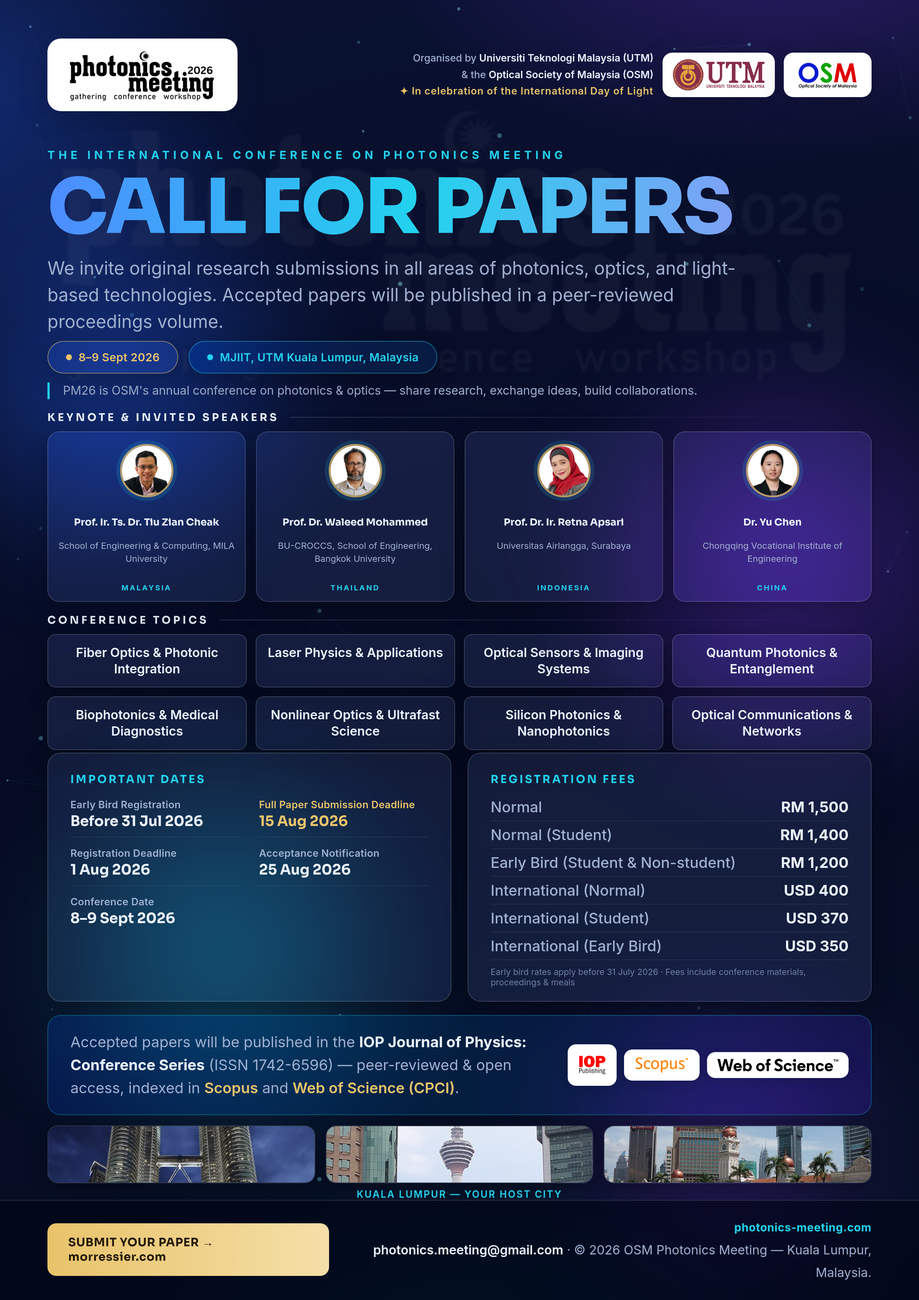
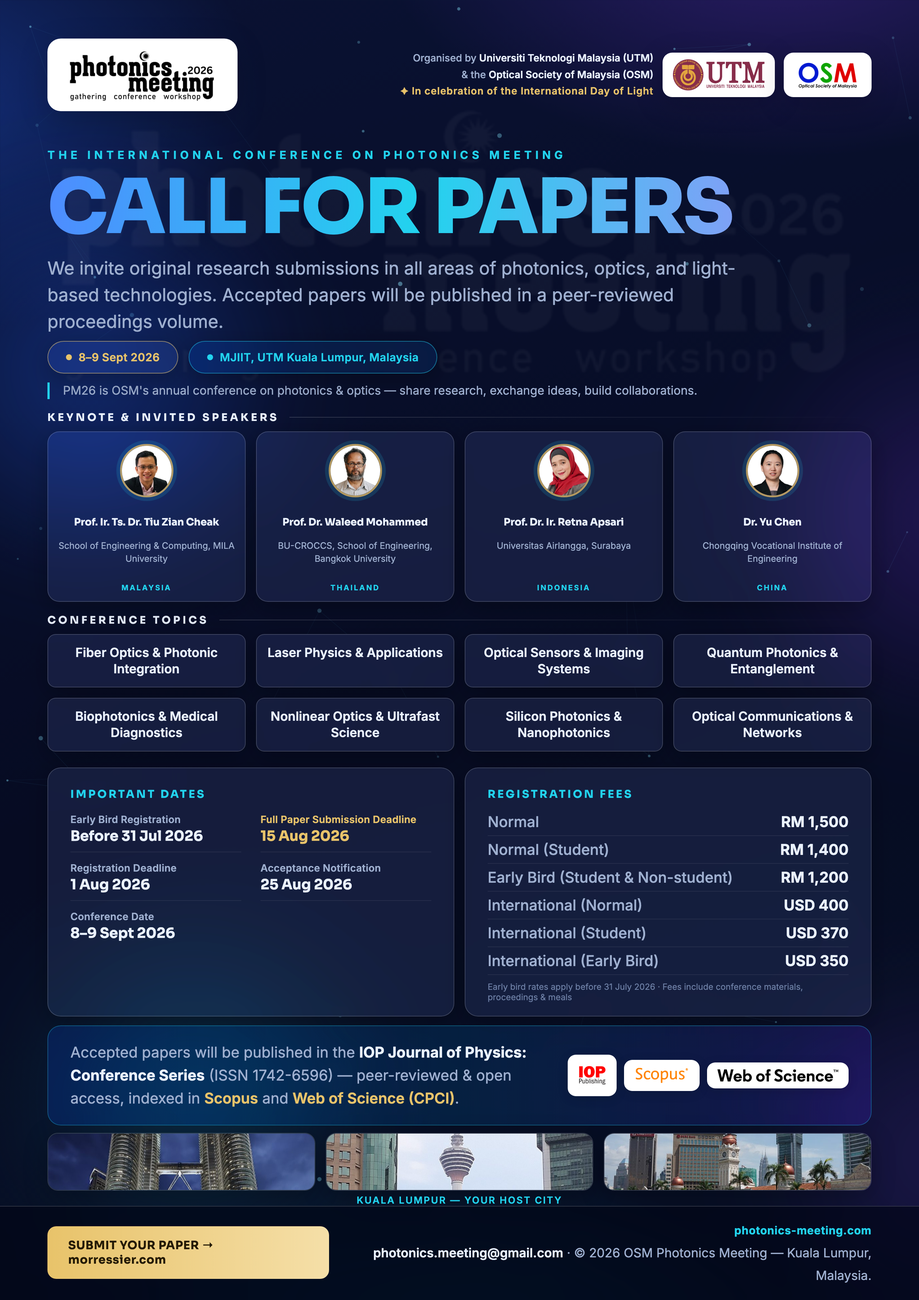
Poster: uniform 14px box gutters + real separation before dates/fees panels
- All box gaps unified to 14px (speaker cards, topic chips, panels seam)
  so every column edge aligns down the page
- Even card tinting: violet orbs moved off the 4th column to the page
  margins (no more purple-washed cards); cyan orb moved out of the
  chips->panels seam and dimmed
- Topics -> panels vertical gap widened to a true 48px (was visually
  ~2px due to orb glow welding the boxes together); height reclaimed
  from publication/KL-strip/footer paddings to preserve A4 fit

Changed region(s): [[0.031, 0.3107, 1.0, 0.9943]]

diff --git a/poster/pm26-cfp-poster-bright.html b/poster/pm26-cfp-poster-bright.html
@@ -47,10 +47,10 @@
   .about { margin-top:12px; font-size:16px; line-height:1.4; color:var(--dim);
     border-left:3px solid var(--cyan); padding-left:18px; }
 
-  .kl-strip { display:flex; gap:14px; margin-top:14px; }
+  .kl-strip { display:flex; gap:14px; margin-top:10px; }
   .kl-strip img { flex:1; height:78px; width:100%; object-fit:cover; border-radius:14px;
     border:1px solid var(--edge); box-shadow:0 8px 32px rgba(10,18,51,.12); }
-  .kl-cap { margin-top:7px; font-size:13px; font-weight:600; letter-spacing:1.5px; color:var(--cyan); text-align:center; }
+  .kl-cap { margin-top:5px; font-size:13px; font-weight:600; letter-spacing:1.5px; color:var(--cyan); text-align:center; }
 
   .slab { font-family:'Sora'; font-size:14px; font-weight:700; letter-spacing:3.4px; color:var(--dimmer);
     margin:16px 0 10px; display:flex; align-items:center; gap:14px; }
@@ -68,12 +68,12 @@
     display:-webkit-box; -webkit-line-clamp:3; -webkit-box-orient:vertical; overflow:hidden; }
   .sp-cty { font-size:10px; font-weight:700; letter-spacing:1.8px; color:var(--cyan); margin-top:6px; }
 
-  .chips { display:grid; grid-template-columns:repeat(4,1fr); gap:12px; }
+  .chips { display:grid; grid-template-columns:repeat(4,1fr); gap:14px; }
   .chip { border:1px solid var(--edge); background:var(--card); border-radius:11px; padding:13px 10px;
     font-size:17px; font-weight:600; text-align:center; color:var(--ink); line-height:1.3;
     box-shadow:0 8px 32px rgba(10,18,51,.12); }
 
-  .cols { display:grid; grid-template-columns:1fr 1fr; gap:22px; }
+  .cols { display:grid; grid-template-columns:1fr 1fr; gap:14px; }
   .panel { background:var(--card); border:1px solid var(--edge); border-radius:18px; padding:26px 30px 18px;
     box-shadow:0 8px 32px rgba(10,18,51,.12); }
   .panel h3 { font-family:'Sora'; font-size:14.5px; font-weight:700; letter-spacing:2.6px; color:var(--cyan); margin-bottom:10px; }
@@ -90,7 +90,7 @@
   .row.hot .row-l { font-weight:600; }
   .fee-note { font-size:11.5px; color:var(--dimmer); padding-top:9px; }
 
-  .pub { margin-top:18px; display:flex; align-items:center; gap:20px; border-radius:18px; padding:20px 30px;
+  .pub { margin-top:12px; display:flex; align-items:center; gap:20px; border-radius:18px; padding:20px 30px;
     background:linear-gradient(90deg, rgba(32,87,224,.07), rgba(34,211,238,.05), rgba(124,58,237,.07)); border:1px solid rgba(32,87,224,.30); }
   .pub-t { flex:1; font-size:20px; line-height:1.55; color:var(--dim); }
   .pub-logos { display:flex; align-items:center; gap:10px; flex:0 0 auto; }
@@ -100,7 +100,7 @@
   .pub-t b { color:var(--ink); }
   .pub-t .gold { color:var(--gold); font-weight:600; }
 
-  .foot { margin-top:auto; margin-left:-64px; margin-right:-64px; padding:20px 64px 22px;
+  .foot { margin-top:auto; margin-left:-64px; margin-right:-64px; padding:16px 64px 18px;
     background:rgba(10,18,51,.035); border-top:1px solid var(--edge);
     display:flex; justify-content:space-between; align-items:center; }
   .foot-submit { font-family:'Sora'; font-size:15.5px; font-weight:700; letter-spacing:.5px;
@@ -111,7 +111,7 @@
 </style></head>
 <body>
 <svg class="net" viewBox="0 0 1240 1754" xmlns="http://www.w3.org/2000/svg"><line x1="254" y1="1054" x2="160" y2="1048" stroke="#2057E0" stroke-width="0.7" opacity="0.02"/><line x1="254" y1="1054" x2="122" y2="1068" stroke="#2057E0" stroke-width="0.7" opacity="0.02"/><line x1="948" y1="73" x2="1011" y2="60" stroke="#2057E0" stroke-width="0.7" opacity="0.04"/><line x1="847" y1="882" x2="876" y2="1020" stroke="#2057E0" stroke-width="0.7" opacity="0.02"/><line x1="847" y1="882" x2="844" y2="742" stroke="#2057E0" stroke-width="0.7" opacity="0.02"/><line x1="847" y1="882" x2="868" y2="904" stroke="#2057E0" stroke-width="0.7" opacity="0.07"/><line x1="788" y1="1673" x2="739" y2="1725" stroke="#2057E0" stroke-width="0.7" opacity="0.04"/><line x1="1224" y1="718" x2="1198" y2="771" stroke="#2057E0" stroke-width="0.7" opacity="0.05"/><line x1="1047" y1="1379" x2="943" y2="1360" stroke="#2057E0" stroke-width="0.7" opacity="0.02"/><line x1="1205" y1="51" x2="1228" y2="159" stroke="#2057E0" stroke-width="0.7" opacity="0.02"/><line x1="160" y1="1048" x2="10" y2="1053" stroke="#2057E0" stroke-width="0.7" opacity="0.02"/><line x1="160" y1="1048" x2="122" y2="1068" stroke="#2057E0" stroke-width="0.7" opacity="0.06"/><line x1="452" y1="1452" x2="498" y2="1416" stroke="#2057E0" stroke-width="0.7" opacity="0.05"/><line x1="364" y1="953" x2="431" y2="824" stroke="#2057E0" stroke-width="0.7" opacity="0.02"/><line x1="154" y1="77" x2="73" y2="131" stroke="#2057E0" stroke-width="0.7" opacity="0.02"/><line x1="154" y1="77" x2="50" y2="169" stroke="#2057E0" stroke-width="0.7" opacity="0.02"/><line x1="154" y1="77" x2="41" y2="36" stroke="#2057E0" stroke-width="0.7" opacity="0.02"/><line x1="10" y1="1053" x2="122" y2="1068" stroke="#2057E0" stroke-width="0.7" opacity="0.02"/><line x1="1051" y1="352" x2="1092" y2="439" stroke="#2057E0" stroke-width="0.7" opacity="0.02"/><line x1="1051" y1="352" x2="939" y2="250" stroke="#2057E0" stroke-width="0.7" opacity="0.02"/><line x1="531" y1="909" x2="431" y2="824" stroke="#2057E0" stroke-width="0.7" opacity="0.02"/><line x1="531" y1="909" x2="591" y2="1021" stroke="#2057E0" stroke-width="0.7" opacity="0.02"/><line x1="73" y1="131" x2="41" y2="36" stroke="#2057E0" stroke-width="0.7" opacity="0.02"/><line x1="676" y1="1253" x2="771" y2="1194" stroke="#2057E0" stroke-width="0.7" opacity="0.02"/><line x1="876" y1="1020" x2="804" y2="959" stroke="#2057E0" stroke-width="0.7" opacity="0.02"/><line x1="50" y1="169" x2="79" y2="296" stroke="#2057E0" stroke-width="0.7" opacity="0.02"/><line x1="297" y1="143" x2="380" y2="255" stroke="#2057E0" stroke-width="0.7" opacity="0.02"/><line x1="943" y1="1360" x2="810" y2="1285" stroke="#2057E0" stroke-width="0.7" opacity="0.02"/><line x1="1132" y1="1224" x2="1133" y2="1253" stroke="#2057E0" stroke-width="0.7" opacity="0.07"/><line x1="55" y1="996" x2="122" y2="1068" stroke="#2057E0" stroke-width="0.7" opacity="0.02"/><line x1="648" y1="1706" x2="739" y2="1725" stroke="#2057E0" stroke-width="0.7" opacity="0.02"/><line x1="770" y1="1436" x2="810" y2="1285" stroke="#2057E0" stroke-width="0.7" opacity="0.02"/><line x1="1011" y1="60" x2="910" y2="66" stroke="#2057E0" stroke-width="0.7" opacity="0.02"/><line x1="79" y1="296" x2="178" y2="425" stroke="#2057E0" stroke-width="0.7" opacity="0.02"/><line x1="79" y1="296" x2="128" y2="374" stroke="#2057E0" stroke-width="0.7" opacity="0.02"/><line x1="844" y1="742" x2="868" y2="904" stroke="#2057E0" stroke-width="0.7" opacity="0.02"/><line x1="608" y1="1644" x2="739" y2="1725" stroke="#2057E0" stroke-width="0.7" opacity="0.02"/><line x1="178" y1="425" x2="83" y2="493" stroke="#2057E0" stroke-width="0.7" opacity="0.02"/><circle cx="927" cy="356" r="2.3" fill="#2057E0" opacity="0.22"/><circle cx="254" cy="1054" r="1.3" fill="#2057E0" opacity="0.16"/><circle cx="70" cy="1362" r="1.5" fill="#2057E0" opacity="0.09"/><circle cx="948" cy="73" r="1.2" fill="#2057E0" opacity="0.12"/><circle cx="847" cy="882" r="2.8" fill="#2057E0" opacity="0.20"/><circle cx="788" cy="1673" r="2.5" fill="#2057E0" opacity="0.24"/><circle cx="1224" cy="718" r="1.3" fill="#2057E0" opacity="0.12"/><circle cx="1047" cy="1379" r="1.3" fill="#2057E0" opacity="0.18"/><circle cx="1205" cy="51" r="1.7" fill="#2057E0" opacity="0.12"/><circle cx="1163" cy="390" r="2.6" fill="#2057E0" opacity="0.08"/><circle cx="160" cy="1048" r="2.1" fill="#2057E0" opacity="0.10"/><circle cx="1040" cy="1678" r="1.2" fill="#2057E0" opacity="0.09"/><circle cx="452" cy="1452" r="3.2" fill="#2057E0" opacity="0.21"/><circle cx="38" cy="1699" r="2.0" fill="#2057E0" opacity="0.19"/><circle cx="364" cy="953" r="2.6" fill="#2057E0" opacity="0.10"/><circle cx="154" cy="77" r="3.1" fill="#2057E0" opacity="0.19"/><circle cx="10" cy="1053" r="1.4" fill="#2057E0" opacity="0.22"/><circle cx="696" cy="1431" r="2.1" fill="#2057E0" opacity="0.13"/><circle cx="1055" cy="743" r="1.8" fill="#2057E0" opacity="0.17"/><circle cx="1051" cy="352" r="1.9" fill="#2057E0" opacity="0.10"/><circle cx="1092" cy="439" r="2.7" fill="#2057E0" opacity="0.16"/><circle cx="1165" cy="674" r="2.1" fill="#2057E0" opacity="0.13"/><circle cx="531" cy="909" r="2.1" fill="#2057E0" opacity="0.16"/><circle cx="73" cy="131" r="1.4" fill="#2057E0" opacity="0.12"/><circle cx="676" cy="1253" r="1.3" fill="#2057E0" opacity="0.13"/><circle cx="55" cy="713" r="2.1" fill="#2057E0" opacity="0.10"/><circle cx="459" cy="1370" r="2.4" fill="#2057E0" opacity="0.15"/><circle cx="1228" cy="159" r="2.2" fill="#2057E0" opacity="0.13"/><circle cx="674" cy="183" r="3.1" fill="#2057E0" opacity="0.19"/><circle cx="972" cy="1653" r="3.0" fill="#2057E0" opacity="0.17"/><circle cx="876" cy="1020" r="1.8" fill="#2057E0" opacity="0.19"/><circle cx="50" cy="169" r="2.2" fill="#2057E0" opacity="0.09"/><circle cx="297" cy="143" r="2.9" fill="#2057E0" opacity="0.24"/><circle cx="166" cy="1683" r="3.0" fill="#2057E0" opacity="0.17"/><circle cx="431" cy="1591" r="2.9" fill="#2057E0" opacity="0.20"/><circle cx="943" cy="1360" r="2.3" fill="#2057E0" opacity="0.08"/><circle cx="1132" cy="1224" r="2.7" fill="#2057E0" opacity="0.15"/><circle cx="431" cy="824" r="2.9" fill="#2057E0" opacity="0.14"/><circle cx="484" cy="57" r="1.9" fill="#2057E0" opacity="0.14"/><circle cx="55" cy="996" r="3.0" fill="#2057E0" opacity="0.18"/><circle cx="648" cy="1706" r="2.3" fill="#2057E0" opacity="0.21"/><circle cx="770" cy="1436" r="2.2" fill="#2057E0" opacity="0.23"/><circle cx="591" cy="1021" r="1.5" fill="#2057E0" opacity="0.10"/><circle cx="1011" cy="60" r="2.3" fill="#2057E0" opacity="0.22"/><circle cx="24" cy="754" r="1.3" fill="#2057E0" opacity="0.13"/><circle cx="362" cy="751" r="2.4" fill="#2057E0" opacity="0.16"/><circle cx="79" cy="296" r="2.0" fill="#2057E0" opacity="0.11"/><circle cx="122" cy="1068" r="2.5" fill="#2057E0" opacity="0.11"/><circle cx="41" cy="36" r="1.5" fill="#2057E0" opacity="0.24"/><circle cx="844" cy="742" r="1.2" fill="#2057E0" opacity="0.14"/><circle cx="28" cy="1650" r="1.4" fill="#2057E0" opacity="0.14"/><circle cx="608" cy="1644" r="3.0" fill="#2057E0" opacity="0.21"/><circle cx="804" cy="959" r="2.0" fill="#2057E0" opacity="0.13"/><circle cx="490" cy="177" r="1.8" fill="#2057E0" opacity="0.21"/><circle cx="1198" cy="771" r="1.8" fill="#2057E0" opacity="0.19"/><circle cx="380" cy="255" r="2.8" fill="#2057E0" opacity="0.17"/><circle cx="739" cy="1725" r="3.1" fill="#2057E0" opacity="0.13"/><circle cx="498" cy="1416" r="2.1" fill="#2057E0" opacity="0.14"/><circle cx="868" cy="904" r="1.8" fill="#2057E0" opacity="0.24"/><circle cx="810" cy="1285" r="1.3" fill="#2057E0" opacity="0.14"/><circle cx="1151" cy="77" r="1.7" fill="#2057E0" opacity="0.19"/><circle cx="178" cy="425" r="2.9" fill="#2057E0" opacity="0.12"/><circle cx="83" cy="493" r="1.3" fill="#2057E0" opacity="0.18"/><circle cx="540" cy="383" r="3.0" fill="#2057E0" opacity="0.23"/><circle cx="619" cy="12" r="2.2" fill="#2057E0" opacity="0.22"/><circle cx="1133" cy="1253" r="3.1" fill="#2057E0" opacity="0.20"/><circle cx="128" cy="374" r="1.7" fill="#2057E0" opacity="0.21"/><circle cx="939" cy="250" r="2.2" fill="#2057E0" opacity="0.15"/><circle cx="910" cy="66" r="1.5" fill="#2057E0" opacity="0.22"/><circle cx="771" cy="1194" r="2.5" fill="#2057E0" opacity="0.09"/></svg>
-<div class="orb" style="left:-150px;top:200px;width:600px;height:600px;background:radial-gradient(circle,rgba(32,87,224,.26) 0%,transparent 70%);"></div><div class="orb" style="left:740px;top:440px;width:640px;height:640px;background:radial-gradient(circle,rgba(124,58,237,.20) 0%,transparent 70%);"></div><div class="orb" style="left:0px;top:980px;width:600px;height:600px;background:radial-gradient(circle,rgba(34,211,238,.24) 0%,transparent 70%);"></div><div class="orb" style="left:720px;top:1300px;width:520px;height:520px;background:radial-gradient(circle,rgba(124,58,237,.16) 0%,transparent 70%);"></div>
+<div class="orb" style="left:-180px;top:200px;width:600px;height:600px;background:radial-gradient(circle,rgba(32,87,224,.22) 0%,transparent 70%);"></div><div class="orb" style="left:990px;top:400px;width:600px;height:600px;background:radial-gradient(circle,rgba(124,58,237,.14) 0%,transparent 70%);"></div><div class="orb" style="left:-20px;top:1200px;width:560px;height:560px;background:radial-gradient(circle,rgba(34,211,238,.12) 0%,transparent 70%);"></div><div class="orb" style="left:1010px;top:1300px;width:520px;height:520px;background:radial-gradient(circle,rgba(124,58,237,.12) 0%,transparent 70%);"></div>
[1 lines of base64/hex data omitted]
 <div class="wrap">
 
@@ -167,7 +167,7 @@
   <div class="slab"><b>CONFERENCE TOPICS</b></div>
   <div class="chips"><div class="chip">Fiber Optics &amp; Photonic Integration</div><div class="chip">Laser Physics &amp; Applications</div><div class="chip">Optical Sensors &amp; Imaging Systems</div><div class="chip">Quantum Photonics &amp; Entanglement</div><div class="chip">Biophotonics &amp; Medical Diagnostics</div><div class="chip">Nonlinear Optics &amp; Ultrafast Science</div><div class="chip">Silicon Photonics &amp; Nanophotonics</div><div class="chip">Optical Communications &amp; Networks</div></div>
 
-  <div style="height:30px"></div>
+  <div style="height:48px"></div>
   <div class="cols">
     <div class="panel">
       <h3>IMPORTANT DATES</h3>

diff --git a/poster/pm26-cfp-poster.html b/poster/pm26-cfp-poster.html
@@ -47,10 +47,10 @@
   .about { margin-top:12px; font-size:16px; line-height:1.4; color:var(--dim);
     border-left:3px solid var(--cyan); padding-left:18px; }
 
-  .kl-strip { display:flex; gap:14px; margin-top:14px; }
+  .kl-strip { display:flex; gap:14px; margin-top:10px; }
   .kl-strip img { flex:1; height:78px; width:100%; object-fit:cover; border-radius:14px;
     border:1px solid var(--edge); box-shadow:0 8px 32px rgba(0,0,0,.28); }
-  .kl-cap { margin-top:7px; font-size:13px; font-weight:600; letter-spacing:1.5px; color:var(--cyan); text-align:center; }
+  .kl-cap { margin-top:5px; font-size:13px; font-weight:600; letter-spacing:1.5px; color:var(--cyan); text-align:center; }
 
   .slab { font-family:'Sora'; font-size:14px; font-weight:700; letter-spacing:3.4px; color:var(--dimmer);
     margin:16px 0 10px; display:flex; align-items:center; gap:14px; }
@@ -68,12 +68,12 @@
     display:-webkit-box; -webkit-line-clamp:3; -webkit-box-orient:vertical; overflow:hidden; }
   .sp-cty { font-size:10px; font-weight:700; letter-spacing:1.8px; color:var(--cyan); margin-top:6px; }
 
-  .chips { display:grid; grid-template-columns:repeat(4,1fr); gap:12px; }
+  .chips { display:grid; grid-template-columns:repeat(4,1fr); gap:14px; }
   .chip { border:1px solid var(--edge); background:var(--card); border-radius:11px; padding:13px 10px;
     font-size:17px; font-weight:600; text-align:center; color:var(--ink); line-height:1.3;
     box-shadow:0 8px 32px rgba(0,0,0,.28); }
 
-  .cols { display:grid; grid-template-columns:1fr 1fr; gap:22px; }
+  .cols { display:grid; grid-template-columns:1fr 1fr; gap:14px; }
   .panel { background:var(--card); border:1px solid var(--edge); border-radius:18px; padding:26px 30px 18px;
     box-shadow:0 8px 32px rgba(0,0,0,.28); }
   .panel h3 { font-family:'Sora'; font-size:14.5px; font-weight:700; letter-spacing:2.6px; color:var(--cyan); margin-bottom:10px; }
@@ -90,7 +90,7 @@
   .row.hot .row-l { font-weight:600; }
   .fee-note { font-size:11.5px; color:var(--dimmer); padding-top:9px; }
 
-  .pub { margin-top:18px; display:flex; align-items:center; gap:20px; border-radius:18px; padding:20px 30px;
+  .pub { margin-top:12px; display:flex; align-items:center; gap:20px; border-radius:18px; padding:20px 30px;
     background:linear-gradient(90deg, rgba(32,87,224,.16), rgba(34,211,238,.09), rgba(124,58,237,.14)); border:1px solid rgba(34,211,238,.30); }
   .pub-t { flex:1; font-size:20px; line-height:1.55; color:var(--dim); }
   .pub-logos { display:flex; align-items:center; gap:10px; flex:0 0 auto; }
@@ -100,7 +100,7 @@
   .pub-t b { color:var(--ink); }
   .pub-t .gold { color:var(--gold); font-weight:600; }
 
-  .foot { margin-top:auto; margin-left:-64px; margin-right:-64px; padding:20px 64px 22px;
+  .foot { margin-top:auto; margin-left:-64px; margin-right:-64px; padding:16px 64px 18px;
     background:rgba(3,6,18,.72); border-top:1px solid var(--edge);
     display:flex; justify-content:space-between; align-items:center; }
   .foot-submit { font-family:'Sora'; font-size:15.5px; font-weight:700; letter-spacing:.5px;
@@ -111,7 +111,7 @@
 </style></head>
 <body>
 <svg class="net" viewBox="0 0 1240 1754" xmlns="http://www.w3.org/2000/svg"><line x1="254" y1="1054" x2="160" y2="1048" stroke="#4FA8D8" stroke-width="0.7" opacity="0.09"/><line x1="254" y1="1054" x2="122" y2="1068" stroke="#4FA8D8" stroke-width="0.7" opacity="0.06"/><line x1="948" y1="73" x2="1011" y2="60" stroke="#4FA8D8" stroke-width="0.7" opacity="0.11"/><line x1="847" y1="882" x2="876" y2="1020" stroke="#4FA8D8" stroke-width="0.7" opacity="0.06"/><line x1="847" y1="882" x2="844" y2="742" stroke="#4FA8D8" stroke-width="0.7" opacity="0.06"/><line x1="847" y1="882" x2="868" y2="904" stroke="#4FA8D8" stroke-width="0.7" opacity="0.14"/><line x1="788" y1="1673" x2="739" y2="1725" stroke="#4FA8D8" stroke-width="0.7" opacity="0.11"/><line x1="1224" y1="718" x2="1198" y2="771" stroke="#4FA8D8" stroke-width="0.7" opacity="0.12"/><line x1="1047" y1="1379" x2="943" y2="1360" stroke="#4FA8D8" stroke-width="0.7" opacity="0.08"/><line x1="1205" y1="51" x2="1228" y2="159" stroke="#4FA8D8" stroke-width="0.7" opacity="0.08"/><line x1="160" y1="1048" x2="10" y2="1053" stroke="#4FA8D8" stroke-width="0.7" opacity="0.05"/><line x1="160" y1="1048" x2="122" y2="1068" stroke="#4FA8D8" stroke-width="0.7" opacity="0.13"/><line x1="452" y1="1452" x2="498" y2="1416" stroke="#4FA8D8" stroke-width="0.7" opacity="0.12"/><line x1="364" y1="953" x2="431" y2="824" stroke="#4FA8D8" stroke-width="0.7" opacity="0.06"/><line x1="154" y1="77" x2="73" y2="131" stroke="#4FA8D8" stroke-width="0.7" opacity="0.09"/><line x1="154" y1="77" x2="50" y2="169" stroke="#4FA8D8" stroke-width="0.7" opacity="0.06"/><line x1="154" y1="77" x2="41" y2="36" stroke="#4FA8D8" stroke-width="0.7" opacity="0.07"/><line x1="10" y1="1053" x2="122" y2="1068" stroke="#4FA8D8" stroke-width="0.7" opacity="0.08"/><line x1="1051" y1="352" x2="1092" y2="439" stroke="#4FA8D8" stroke-width="0.7" opacity="0.09"/><line x1="1051" y1="352" x2="939" y2="250" stroke="#4FA8D8" stroke-width="0.7" opacity="0.05"/><line x1="531" y1="909" x2="431" y2="824" stroke="#4FA8D8" stroke-width="0.7" opacity="0.07"/><line x1="531" y1="909" x2="591" y2="1021" stroke="#4FA8D8" stroke-width="0.7" opacity="0.07"/><line x1="73" y1="131" x2="41" y2="36" stroke="#4FA8D8" stroke-width="0.7" opacity="0.09"/><line x1="676" y1="1253" x2="771" y2="1194" stroke="#4FA8D8" stroke-width="0.7" opacity="0.08"/><line x1="876" y1="1020" x2="804" y2="959" stroke="#4FA8D8" stroke-width="0.7" opacity="0.09"/><line x1="50" y1="169" x2="79" y2="296" stroke="#4FA8D8" stroke-width="0.7" opacity="0.07"/><line x1="297" y1="143" x2="380" y2="255" stroke="#4FA8D8" stroke-width="0.7" opacity="0.06"/><line x1="943" y1="1360" x2="810" y2="1285" stroke="#4FA8D8" stroke-width="0.7" opacity="0.05"/><line x1="1132" y1="1224" x2="1133" y2="1253" stroke="#4FA8D8" stroke-width="0.7" opacity="0.14"/><line x1="55" y1="996" x2="122" y2="1068" stroke="#4FA8D8" stroke-width="0.7" opacity="0.09"/><line x1="648" y1="1706" x2="739" y2="1725" stroke="#4FA8D8" stroke-width="0.7" opacity="0.09"/><line x1="770" y1="1436" x2="810" y2="1285" stroke="#4FA8D8" stroke-width="0.7" opacity="0.05"/><line x1="1011" y1="60" x2="910" y2="66" stroke="#4FA8D8" stroke-width="0.7" opacity="0.09"/><line x1="79" y1="296" x2="178" y2="425" stroke="#4FA8D8" stroke-width="0.7" opacity="0.04"/><line x1="79" y1="296" x2="128" y2="374" stroke="#4FA8D8" stroke-width="0.7" opacity="0.09"/><line x1="844" y1="742" x2="868" y2="904" stroke="#4FA8D8" stroke-width="0.7" opacity="0.04"/><line x1="608" y1="1644" x2="739" y2="1725" stroke="#4FA8D8" stroke-width="0.7" opacity="0.05"/><line x1="178" y1="425" x2="83" y2="493" stroke="#4FA8D8" stroke-width="0.7" opacity="0.08"/><circle cx="927" cy="356" r="2.3" fill="#7FD8F0" opacity="0.43"/><circle cx="254" cy="1054" r="1.3" fill="#7FD8F0" opacity="0.32"/><circle cx="70" cy="1362" r="1.5" fill="#7FD8F0" opacity="0.17"/><circle cx="948" cy="73" r="1.2" fill="#7FD8F0" opacity="0.24"/><circle cx="847" cy="882" r="2.8" fill="#7FD8F0" opacity="0.40"/><circle cx="788" cy="1673" r="2.5" fill="#7FD8F0" opacity="0.49"/><circle cx="1224" cy="718" r="1.3" fill="#7FD8F0" opacity="0.24"/><circle cx="1047" cy="1379" r="1.3" fill="#7FD8F0" opacity="0.36"/><circle cx="1205" cy="51" r="1.7" fill="#7FD8F0" opacity="0.23"/><circle cx="1163" cy="390" r="2.6" fill="#7FD8F0" opacity="0.16"/><circle cx="160" cy="1048" r="2.1" fill="#7FD8F0" opacity="0.18"/><circle cx="1040" cy="1678" r="1.2" fill="#7FD8F0" opacity="0.17"/><circle cx="452" cy="1452" r="3.2" fill="#7FD8F0" opacity="0.42"/><circle cx="38" cy="1699" r="2.0" fill="#7FD8F0" opacity="0.37"/><circle cx="364" cy="953" r="2.6" fill="#7FD8F0" opacity="0.19"/><circle cx="154" cy="77" r="3.1" fill="#7FD8F0" opacity="0.38"/><circle cx="10" cy="1053" r="1.4" fill="#7FD8F0" opacity="0.43"/><circle cx="696" cy="1431" r="2.1" fill="#7FD8F0" opacity="0.24"/><circle cx="1055" cy="743" r="1.8" fill="#7FD8F0" opacity="0.34"/><circle cx="1051" cy="352" r="1.9" fill="#7FD8F0" opacity="0.20"/><circle cx="1092" cy="439" r="2.7" fill="#7FD8F0" opacity="0.31"/><circle cx="1165" cy="674" r="2.1" fill="#7FD8F0" opacity="0.25"/><circle cx="531" cy="909" r="2.1" fill="#7FD8F0" opacity="0.30"/><circle cx="73" cy="131" r="1.4" fill="#7FD8F0" opacity="0.23"/><circle cx="676" cy="1253" r="1.3" fill="#7FD8F0" opacity="0.24"/><circle cx="55" cy="713" r="2.1" fill="#7FD8F0" opacity="0.19"/><circle cx="459" cy="1370" r="2.4" fill="#7FD8F0" opacity="0.30"/><circle cx="1228" cy="159" r="2.2" fill="#7FD8F0" opacity="0.25"/><circle cx="674" cy="183" r="3.1" fill="#7FD8F0" opacity="0.37"/><circle cx="972" cy="1653" r="3.0" fill="#7FD8F0" opacity="0.34"/><circle cx="876" cy="1020" r="1.8" fill="#7FD8F0" opacity="0.37"/><circle cx="50" cy="169" r="2.2" fill="#7FD8F0" opacity="0.16"/><circle cx="297" cy="143" r="2.9" fill="#7FD8F0" opacity="0.47"/><circle cx="166" cy="1683" r="3.0" fill="#7FD8F0" opacity="0.33"/><circle cx="431" cy="1591" r="2.9" fill="#7FD8F0" opacity="0.40"/><circle cx="943" cy="1360" r="2.3" fill="#7FD8F0" opacity="0.16"/><circle cx="1132" cy="1224" r="2.7" fill="#7FD8F0" opacity="0.30"/><circle cx="431" cy="824" r="2.9" fill="#7FD8F0" opacity="0.28"/><circle cx="484" cy="57" r="1.9" fill="#7FD8F0" opacity="0.28"/><circle cx="55" cy="996" r="3.0" fill="#7FD8F0" opacity="0.36"/><circle cx="648" cy="1706" r="2.3" fill="#7FD8F0" opacity="0.41"/><circle cx="770" cy="1436" r="2.2" fill="#7FD8F0" opacity="0.46"/><circle cx="591" cy="1021" r="1.5" fill="#7FD8F0" opacity="0.20"/><circle cx="1011" cy="60" r="2.3" fill="#7FD8F0" opacity="0.43"/><circle cx="24" cy="754" r="1.3" fill="#7FD8F0" opacity="0.26"/><circle cx="362" cy="751" r="2.4" fill="#7FD8F0" opacity="0.32"/><circle cx="79" cy="296" r="2.0" fill="#7FD8F0" opacity="0.22"/><circle cx="122" cy="1068" r="2.5" fill="#7FD8F0" opacity="0.20"/><circle cx="41" cy="36" r="1.5" fill="#7FD8F0" opacity="0.48"/><circle cx="844" cy="742" r="1.2" fill="#7FD8F0" opacity="0.27"/><circle cx="28" cy="1650" r="1.4" fill="#7FD8F0" opacity="0.28"/><circle cx="608" cy="1644" r="3.0" fill="#7FD8F0" opacity="0.42"/><circle cx="804" cy="959" r="2.0" fill="#7FD8F0" opacity="0.25"/><circle cx="490" cy="177" r="1.8" fill="#7FD8F0" opacity="0.41"/><circle cx="1198" cy="771" r="1.8" fill="#7FD8F0" opacity="0.37"/><circle cx="380" cy="255" r="2.8" fill="#7FD8F0" opacity="0.34"/><circle cx="739" cy="1725" r="3.1" fill="#7FD8F0" opacity="0.25"/><circle cx="498" cy="1416" r="2.1" fill="#7FD8F0" opacity="0.27"/><circle cx="868" cy="904" r="1.8" fill="#7FD8F0" opacity="0.48"/><circle cx="810" cy="1285" r="1.3" fill="#7FD8F0" opacity="0.28"/><circle cx="1151" cy="77" r="1.7" fill="#7FD8F0" opacity="0.38"/><circle cx="178" cy="425" r="2.9" fill="#7FD8F0" opacity="0.23"/><circle cx="83" cy="493" r="1.3" fill="#7FD8F0" opacity="0.36"/><circle cx="540" cy="383" r="3.0" fill="#7FD8F0" opacity="0.47"/><circle cx="619" cy="12" r="2.2" fill="#7FD8F0" opacity="0.44"/><circle cx="1133" cy="1253" r="3.1" fill="#7FD8F0" opacity="0.40"/><circle cx="128" cy="374" r="1.7" fill="#7FD8F0" opacity="0.42"/><circle cx="939" cy="250" r="2.2" fill="#7FD8F0" opacity="0.30"/><circle cx="910" cy="66" r="1.5" fill="#7FD8F0" opacity="0.44"/><circle cx="771" cy="1194" r="2.5" fill="#7FD8F0" opacity="0.16"/></svg>
-<div class="orb" style="left:-150px;top:200px;width:600px;height:600px;background:radial-gradient(circle,rgba(32,87,224,.50) 0%,transparent 70%);"></div><div class="orb" style="left:740px;top:440px;width:640px;height:640px;background:radial-gradient(circle,rgba(124,58,237,.42) 0%,transparent 70%);"></div><div class="orb" style="left:0px;top:980px;width:600px;height:600px;background:radial-gradient(circle,rgba(34,211,238,.30) 0%,transparent 70%);"></div><div class="orb" style="left:720px;top:1300px;width:520px;height:520px;background:radial-gradient(circle,rgba(124,58,237,.28) 0%,transparent 70%);"></div>
+<div class="orb" style="left:-180px;top:200px;width:600px;height:600px;background:radial-gradient(circle,rgba(32,87,224,.40) 0%,transparent 70%);"></div><div class="orb" style="left:990px;top:400px;width:600px;height:600px;background:radial-gradient(circle,rgba(124,58,237,.26) 0%,transparent 70%);"></div><div class="orb" style="left:-20px;top:1200px;width:560px;height:560px;background:radial-gradient(circle,rgba(34,211,238,.16) 0%,transparent 70%);"></div><div class="orb" style="left:1010px;top:1300px;width:520px;height:520px;background:radial-gradient(circle,rgba(124,58,237,.20) 0%,transparent 70%);"></div>
[1 lines of base64/hex data omitted]
 <div class="wrap">
 
@@ -167,7 +167,7 @@
   <div class="slab"><b>CONFERENCE TOPICS</b></div>
   <div class="chips"><div class="chip">Fiber Optics &amp; Photonic Integration</div><div class="chip">Laser Physics &amp; Applications</div><div class="chip">Optical Sensors &amp; Imaging Systems</div><div class="chip">Quantum Photonics &amp; Entanglement</div><div class="chip">Biophotonics &amp; Medical Diagnostics</div><div class="chip">Nonlinear Optics &amp; Ultrafast Science</div><div class="chip">Silicon Photonics &amp; Nanophotonics</div><div class="chip">Optical Communications &amp; Networks</div></div>
 
-  <div style="height:30px"></div>
+  <div style="height:48px"></div>
   <div class="cols">
     <div class="panel">
       <h3>IMPORTANT DATES</h3>

diff --git a/poster/make_poster.py b/poster/make_poster.py
@@ -54,8 +54,8 @@ THEMES = {
         cyan="#22D3EE", rowline="rgba(255,255,255,.07)",
         net_dot="#7FD8F0", net_line="#4FA8D8", net_dot_op=(0.15, 0.5), net_line_base=0.16,
         chip_shadow="0 8px 32px rgba(0,0,0,.28)", logochip_border="none",
-        orbs=[("rgba(32,87,224,.50)",150,500,300),("rgba(124,58,237,.42)",1060,760,320),
-              ("rgba(34,211,238,.30)",300,1280,300),("rgba(124,58,237,.28)",980,1560,260)],
+        orbs=[("rgba(32,87,224,.40)",120,500,300),("rgba(124,58,237,.26)",1290,700,300),
+              ("rgba(34,211,238,.16)",260,1480,280),("rgba(124,58,237,.20)",1270,1560,260)],
         ring="rgba(232,195,106,.75)", halo="rgba(34,211,238,.14)",
         pub_bg="linear-gradient(90deg, rgba(32,87,224,.16), rgba(34,211,238,.09), rgba(124,58,237,.14))",
         pub_edge="rgba(34,211,238,.30)",
@@ -78,8 +78,8 @@ THEMES = {
         cyan="#0891B2", rowline="rgba(10,18,51,.08)",
         net_dot="#2057E0", net_line="#2057E0", net_dot_op=(0.08, 0.25), net_line_base=0.09,
         chip_shadow="0 8px 32px rgba(10,18,51,.12)", logochip_border="1px solid #E2E8F0",
-        orbs=[("rgba(32,87,224,.26)",150,500,300),("rgba(124,58,237,.20)",1060,760,320),
-              ("rgba(34,211,238,.24)",300,1280,300),("rgba(124,58,237,.16)",980,1560,260)],
+        orbs=[("rgba(32,87,224,.22)",120,500,300),("rgba(124,58,237,.14)",1290,700,300),
+              ("rgba(34,211,238,.12)",260,1480,280),("rgba(124,58,237,.12)",1270,1560,260)],
         ring="rgba(168,120,24,.65)", halo="rgba(32,87,224,.10)",
         pub_bg="linear-gradient(90deg, rgba(32,87,224,.07), rgba(34,211,238,.05), rgba(124,58,237,.07))",
         pub_edge="rgba(32,87,224,.30)",
@@ -183,10 +183,10 @@ def render(T):
   .about {{ margin-top:12px; font-size:16px; line-height:1.4; color:var(--dim);
     border-left:3px solid var(--cyan); padding-left:18px; }}
 
-  .kl-strip {{ display:flex; gap:14px; margin-top:14px; }}
+  .kl-strip {{ display:flex; gap:14px; margin-top:10px; }}
   .kl-strip img {{ flex:1; height:78px; width:100%; object-fit:cover; border-radius:14px;
     border:1px solid var(--edge); box-shadow:{T["chip_shadow"]}; }}
-  .kl-cap {{ margin-top:7px; font-size:13px; font-weight:600; letter-spacing:1.5px; color:var(--cyan); text-align:center; }}
+  .kl-cap {{ margin-top:5px; font-size:13px; font-weight:600; letter-spacing:1.5px; color:var(--cyan); text-align:center; }}
 
   .slab {{ font-family:'Sora'; font-size:14px; font-weight:700; letter-spacing:3.4px; color:var(--dimmer);
     margin:16px 0 10px; display:flex; align-items:center; gap:14px; }}
@@ -204,12 +204,12 @@ def render(T):
     display:-webkit-box; -webkit-line-clamp:3; -webkit-box-orient:vertical; overflow:hidden; }}
   .sp-cty {{ font-size:10px; font-weight:700; letter-spacing:1.8px; color:var(--cyan); margin-top:6px; }}
 
-  .chips {{ display:grid; grid-template-columns:repeat(4,1fr); gap:12px; }}
+  .chips {{ display:grid; grid-template-columns:repeat(4,1fr); gap:14px; }}
   .chip {{ border:1px solid var(--edge); background:var(--card); border-radius:11px; padding:13px 10px;
     font-size:17px; font-weight:600; text-align:center; color:var(--ink); line-height:1.3;
     box-shadow:{T["chip_shadow"]}; }}
 
-  .cols {{ display:grid; grid-template-columns:1fr 1fr; gap:22px; }}
+  .cols {{ display:grid; grid-template-columns:1fr 1fr; gap:14px; }}
   .panel {{ background:var(--card); border:1px solid var(--edge); border-radius:18px; padding:26px 30px 18px;
     box-shadow:{T["chip_shadow"]}; }}
   .panel h3 {{ font-family:'Sora'; font-size:14.5px; font-weight:700; letter-spacing:2.6px; color:var(--cyan); margin-bottom:10px; }}
@@ -226,7 +226,7 @@ def render(T):
   .row.hot .row-l {{ font-weight:600; }}
   .fee-note {{ font-size:11.5px; color:var(--dimmer); padding-top:9px; }}
 
-  .pub {{ margin-top:18px; display:flex; align-items:center; gap:20px; border-radius:18px; padding:20px 30px;
+  .pub {{ margin-top:12px; display:flex; align-items:center; gap:20px; border-radius:18px; padding:20px 30px;
     background:{T["pub_bg"]}; border:1px solid {T["pub_edge"]}; }}
   .pub-t {{ flex:1; font-size:20px; line-height:1.55; color:var(--dim); }}
   .pub-logos {{ display:flex; align-items:center; gap:10px; flex:0 0 auto; }}
@@ -236,7 +236,7 @@ def render(T):
   .pub-t b {{ color:var(--ink); }}
   .pub-t .gold {{ color:var(--gold); font-weight:600; }}
 
-  .foot {{ margin-top:auto; margin-left:-64px; margin-right:-64px; padding:20px 64px 22px;
+  .foot {{ margin-top:auto; margin-left:-64px; margin-right:-64px; padding:16px 64px 18px;
     background:{T["foot_bg"]}; border-top:1px solid var(--edge);
     display:flex; justify-content:space-between; align-items:center; }}
   .foot-submit {{ font-family:'Sora'; font-size:15.5px; font-weight:700; letter-spacing:.5px;
@@ -279,7 +279,7 @@ def render(T):
   <div class="slab"><b>CONFERENCE TOPICS</b></div>
   <div class="chips">{topic_chips}</div>
 
-  <div style="height:30px"></div>
+  <div style="height:48px"></div>
   <div class="cols">
     <div class="panel">
       <h3>IMPORTANT DATES</h3>
